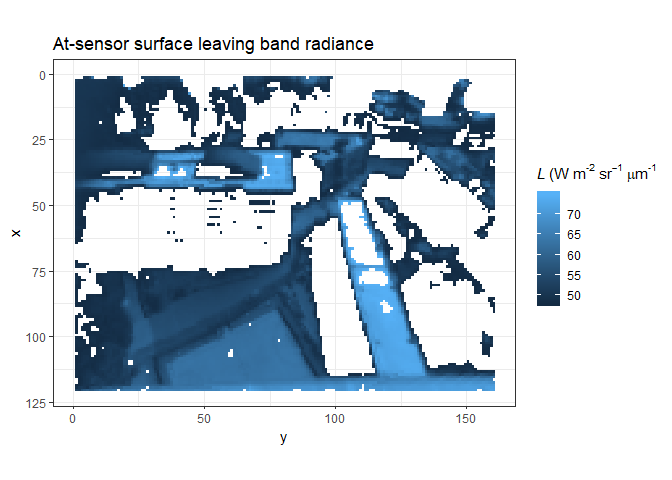
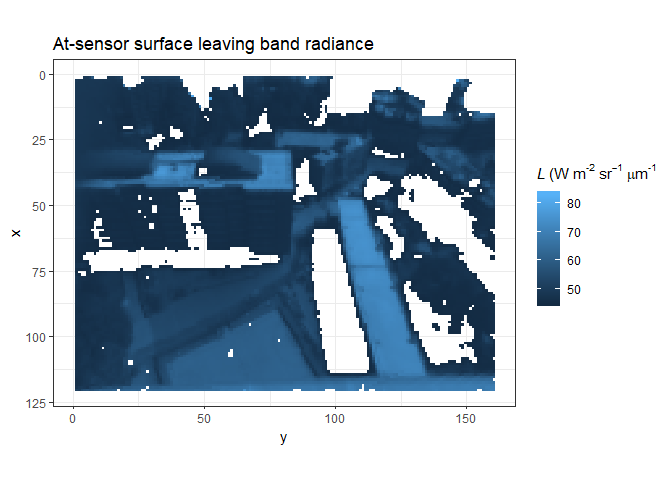
man

diff --git a/tutorials/Band-calculation/README.md b/tutorials/Band-calculation/README.md
@@ -93,14 +93,14 @@ bandRadDF <- bandRadiance_surf(LCam_spectralBrick = LcamSpectral,
 and plot the corrected surface-leaving band radiance (cf. uncorrected at-sensor band radiance).
 
 ```r
-ggplot(bandRadDF %>% filter(between(bandValue, 48, 75))) +
+ggplot(bandRadDF %>% filter(between(bandValue, 45, 85))) +
   geom_raster(aes(x = x, y = y, fill = bandValue)) +
   theme_bw() +
   coord_flip() +
   scale_x_reverse() +
   ggtitle("At-sensor surface leaving band radiance") +
   labs(fill = expression(italic(L)~"(W m"^"-2"~sr^-1~mu*m^"-1")) +
-  theme(aspect.ratio = 120/160)
+  theme(aspect.ratio = 120 / 160)
 ```
 
 ![](README_files/figure-gfm/unnamed-chunk-8-1.png)<!-- -->
